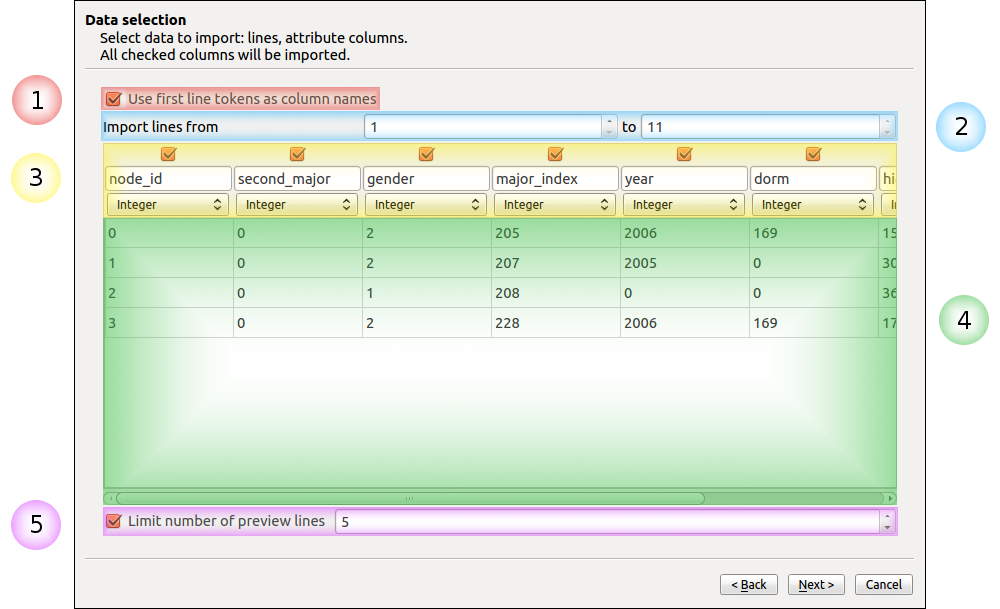
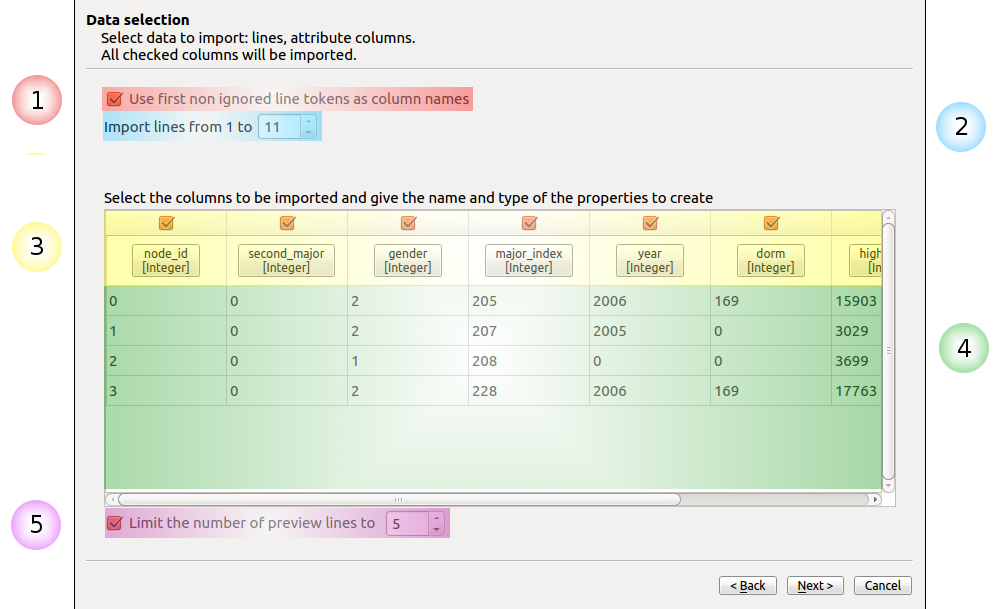
update CSV Import doc after the last CSV import improvements

diff --git a/doc/user/functions.rst b/doc/user/functions.rst
@@ -236,7 +236,7 @@ The purpose of each labeled component is explained below:
 
 2. The line range spinbuttons : these two spin buttons allow the user to select the start and end rows for the data to import. The spin boxes can be used either by typing a new value in the text entry area where the numbers are displayed, or by using the mouse button to click on the upwards arrow to increase the number and the downwards arrow to decrease the number. For instance, if the text file contained a large header area with meta information, this header could be excluded from the data imported by increasing the number of the starting, "From", line.
 
-3. The columns configuration area : this area allows the user to configure each column detected in the file. Any single column can be excluded from the data imported by clicking in the checkbox under its name to remove the check mark. User can rename a column by editing the field containing it's original name. You can't input the same name as another column, but you can use the name of an already existing property (viewLabel for example) to fill the nodes or edges corresponding values with the column contents. Details about the copy of the contents of a property into another property can be found in the :ref:`workspace_spreadsheet` documentation. The data type of a column can be changed using the combo-box under it's name.
+3. The columns configuration area : this area allows the user to configure each column detected in the file. Any single column can be excluded from the data imported by clicking in the checkbox under its name to remove the check mark. User can configure a column by clicking on the button containing it's original name. The name, data type and other configuration options of a column can be changed using the configuration dialog displayed when clicking on the button. The name and data type of a column can be used to create a new Tulip property or identify an existing one. You cannot input the same name as another column, but you can use the name of an already existing property (viewLabel for example) to fill the nodes or edges corresponding values with the column contents. Details about the copy of the contents of a property into another property can be found in the :ref:`workspace_spreadsheet` documentation. 
 
 4. The preview area : this area displays a preview of the file as it will be interpreted with these settings. If a column isn't selected it will not appear in the preview.
 
